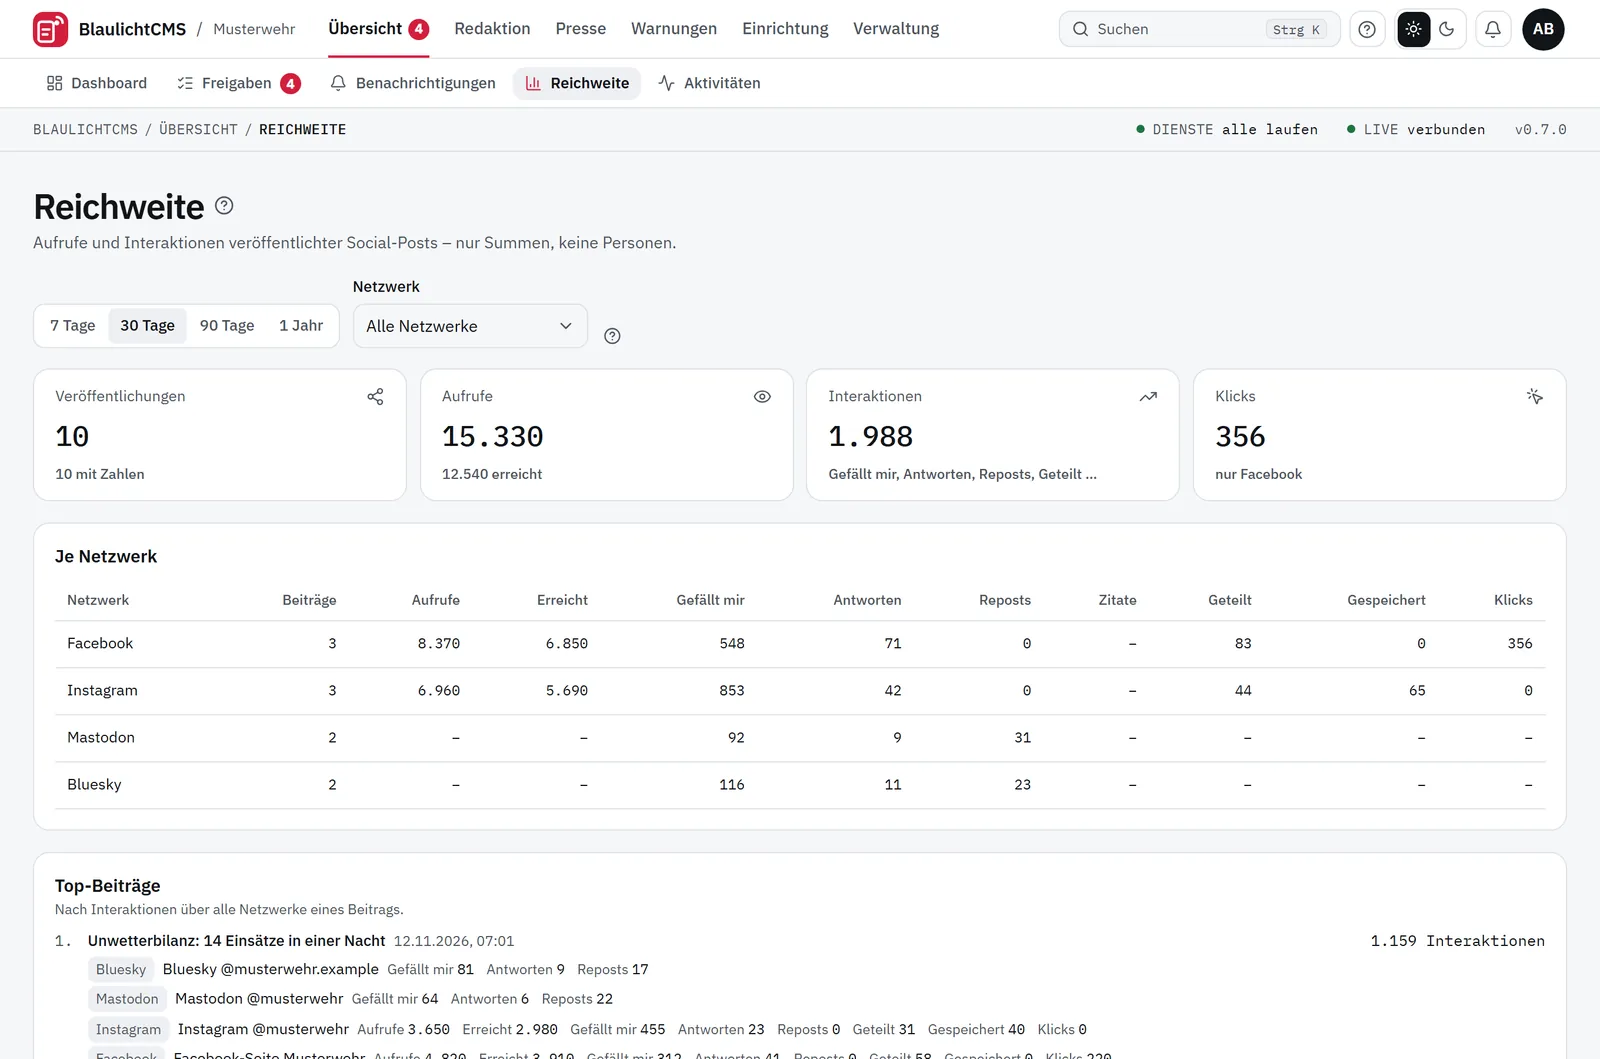
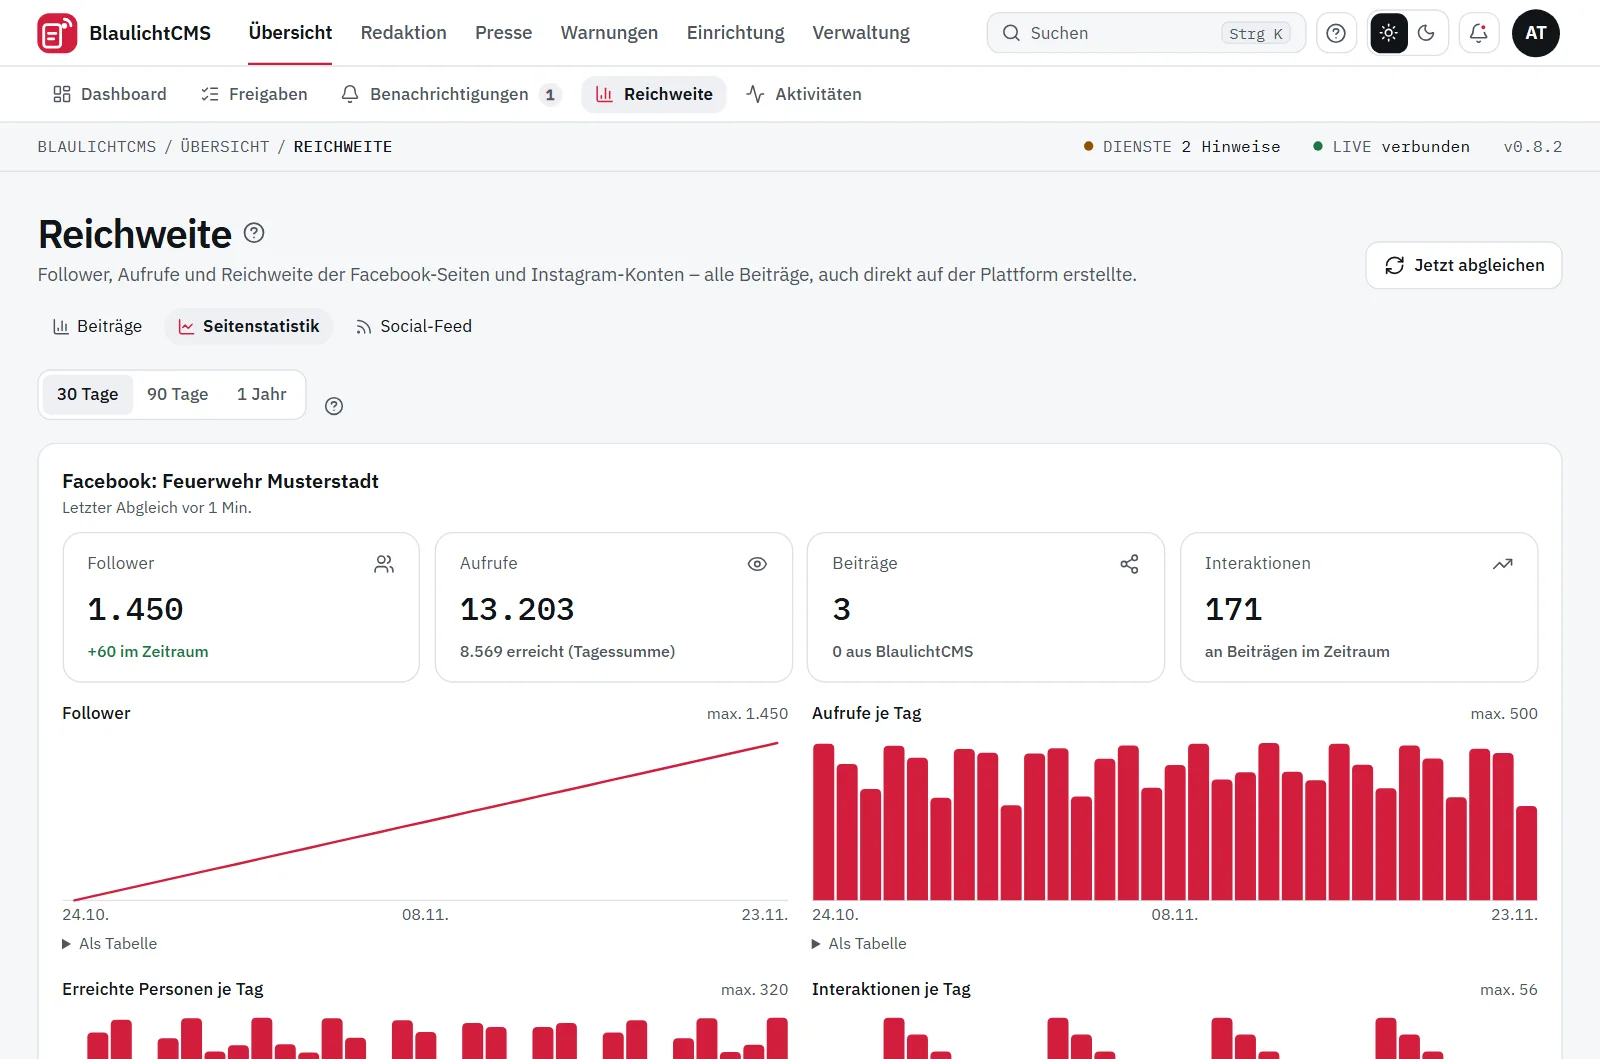
Version 0.9.0

diff --git a/release-notes/v0.9.0.md b/release-notes/v0.9.0.md
@@ -1,0 +1,57 @@
+## BlaulichtCMS 0.9.0
+
+Update **ohne neues Docker-Image**: Seitenstatistik und Social-Feed für Facebook und Instagram, Instagram für neue
+Meta-Apps über Facebook (Unified Login) und die BlaulichtCMS Bridge 0.10.0 mit Social-Feed für die Website.
+
+Eine additive Datenbank-Migration (235); Daten, Konten, Rollen und gekoppelte Websites bleiben unverändert. Neu 103
+Rechte (neu: „Social-Feed verwalten“), BlaulichtCMS Bridge 0.10.0.
+
+### Seitenstatistik: die ganze Seite, nicht nur Beiträge aus BlaulichtCMS
+
+- Der **Seitenabgleich** liest stündlich alle Beiträge der Facebook-Seite bzw. des Instagram-Kontos – auch die direkt
+  dort erstellten – samt Vorschaubild und Zahlen, dazu einmal am Tag Follower, Aufrufe, Reichweite und Interaktionen.
+- **Reichweite** hat jetzt Reiter: **Beiträge** (mit dem Umschalter „Alle Seitenbeiträge“), **Seitenstatistik**
+  (Follower-Verlauf, Tageswerte als Diagramm und Tabelle, Top-Beiträge, „Jetzt abgleichen“) und **Social-Feed**.
+- Je Verbindung lässt sich der Abgleich mit **„Seite abgleichen“** bzw. **„Konto abgleichen“** ausschalten.
+- Meta stellt seine Seiten-Kennzahlen laufend um. BlaulichtCMS fragt jede Kennzahl einzeln ab; was Meta nicht (mehr)
+  liefert, fehlt und steht als Hinweis über der Statistik. Tageswerte brauchen das Statistik-Recht (`read_insights`
+  bzw. Instagram-Insights).
+
+### Social-Feed für Website und RSS
+
+- Unter *Reichweite → Social-Feed* die Beiträge **freigeben**, Quellen und Anzahl wählen, einzelne Beiträge
+  **ausblenden**.
+- **RSS-Adresse:** geheim, wird nur einmal angezeigt, lässt sich erneuern oder widerrufen.
+- **Website:** Die Bridge 0.10.0 bringt den Shortcode `[blaulichtcms_social]` und den Block „BlaulichtCMS:
+  Social-Feed“ (Kacheln oder Liste). Die Bilder liegen auf der Website – Besucher laden nichts von Facebook oder
+  Instagram nach, keine eingebetteten Skripte, kein Tracking.
+- Neues Recht **„Social-Feed verwalten“** (Bereich Veröffentlichung); die Rolle Redaktion hat es von Anfang an.
+
+### Instagram über Facebook (Unified Login)
+
+- Neue Meta-Apps bieten kein Instagram-Login mit eigener Instagram-App-ID mehr an, sondern nur noch
+  „API setup with Unified login“. In der Instagram-Verbindung gibt es dafür die Anmeldung **„Über Facebook (Unified
+  Login)“** mit Facebook-App-ID, App-Geheimnis und **Konfigurations-ID**.
+- Meta stellt dabei meist einen Token ohne Ablauf aus. Liefert Meta mehrere Konten, wird in der Verbindung eines
+  gewählt. Veröffentlichen, Storys, Reichweite und Seitenabgleich funktionieren wie gewohnt.
+- Steht beim Instagram-Login versehentlich die Facebook-App-ID, meldet BlaulichtCMS das jetzt klar (statt
+  „Invalid platform app“ bei Instagram).
+- Anleitung: Hilfe → Verbindungen → „Instagram über Facebook (Unified Login)“.
+
+### So spielst du das Update ein
+
+Unter *Verwaltung → Einstellungen → Updates & Wartung* das Update auf **0.9.0** mit dem **Update-Knopf** einspielen
+(Recht „Updates einstellen und installieren“, Bestätigung mit Passwort und Zwei-Faktor-Code). BlaulichtCMS sichert
+vorher alles und ist während des Wechsels kurz nicht erreichbar.
+
+**Von 0.7.x aus:** Erst auf 0.8.0 gehen (neues Docker-Image) – siehe
+[Versionshinweise 0.8.0](https://github.com/thisislennard/BlaulichtCMS/blob/v0.8.0/release-notes/v0.8.0.md).
+
+### Nach dem Update
+
+- **Version prüfen:** *Verwaltung → Einstellungen → Updates & Wartung* zeigt **0.9.0**.
+- **Seitenstatistik:** Der erste Abgleich läuft innerhalb einer Stunde (sofort mit „Jetzt abgleichen“). Facebook liefert
+  dabei die Tageswerte der letzten 28 Tage, Instagram der letzten 7 Tage nach.
+- **Social-Feed:** Ist erst nach der Freigabe unter *Reichweite → Social-Feed* öffentlich.
+- **Bridge:** Die gekoppelten Websites erhalten die Bridge 0.10.0 innerhalb von sechs Stunden über den normalen
+  WordPress-Updateweg.

diff --git a/README.md b/README.md
@@ -7,7 +7,7 @@
 
 <br/><br/>
 
-[![Version](https://img.shields.io/badge/Version-0.8.2-D21F3C)](https://github.com/thisislennard/BlaulichtCMS/releases/latest)
+[![Version](https://img.shields.io/badge/Version-0.9.0-D21F3C)](https://github.com/thisislennard/BlaulichtCMS/releases/latest)
 [![CI](https://github.com/thisislennard/BlaulichtCMS/actions/workflows/ci.yml/badge.svg)](https://github.com/thisislennard/BlaulichtCMS/actions/workflows/ci.yml)
 [![Lizenz: GPL-3.0](https://img.shields.io/badge/Lizenz-GPL--3.0--or--later-blue)](LICENSE)
 ![DSGVO-konform](https://img.shields.io/badge/DSGVO-konform-1E7443)
@@ -59,7 +59,7 @@ Hilfe-Center mit 32 Kapiteln, heller und dunkler Modus, vollständig per Tastatu
   <tr>
     <td valign="top"><b>Presseanfragen</b><br/><sub>Status, Zuständigkeit, Frist, Verlauf</sub><br/><br/><img src="docs/bilder/presse.webp" alt="Presseanfragen"/></td>
     <td valign="top"><b>Bild aus Vorlage</b><br/><sub>ausfüllen mit Live-Vorschau</sub><br/><br/><img src="docs/bilder/bildvorlage.webp" alt="Bild aus Vorlage"/></td>
-    <td valign="top"><b>Reichweite</b><br/><sub>je Netzwerk, nur Summen</sub><br/><br/><img src="docs/bilder/reichweite.webp" alt="Reichweite"/></td>
+    <td valign="top"><b>Reichweite</b><br/><sub>Seitenstatistik und Follower-Verlauf, nur Summen</sub><br/><br/><img src="docs/bilder/reichweite.webp" alt="Reichweite"/></td>
   </tr>
 </table>
 
